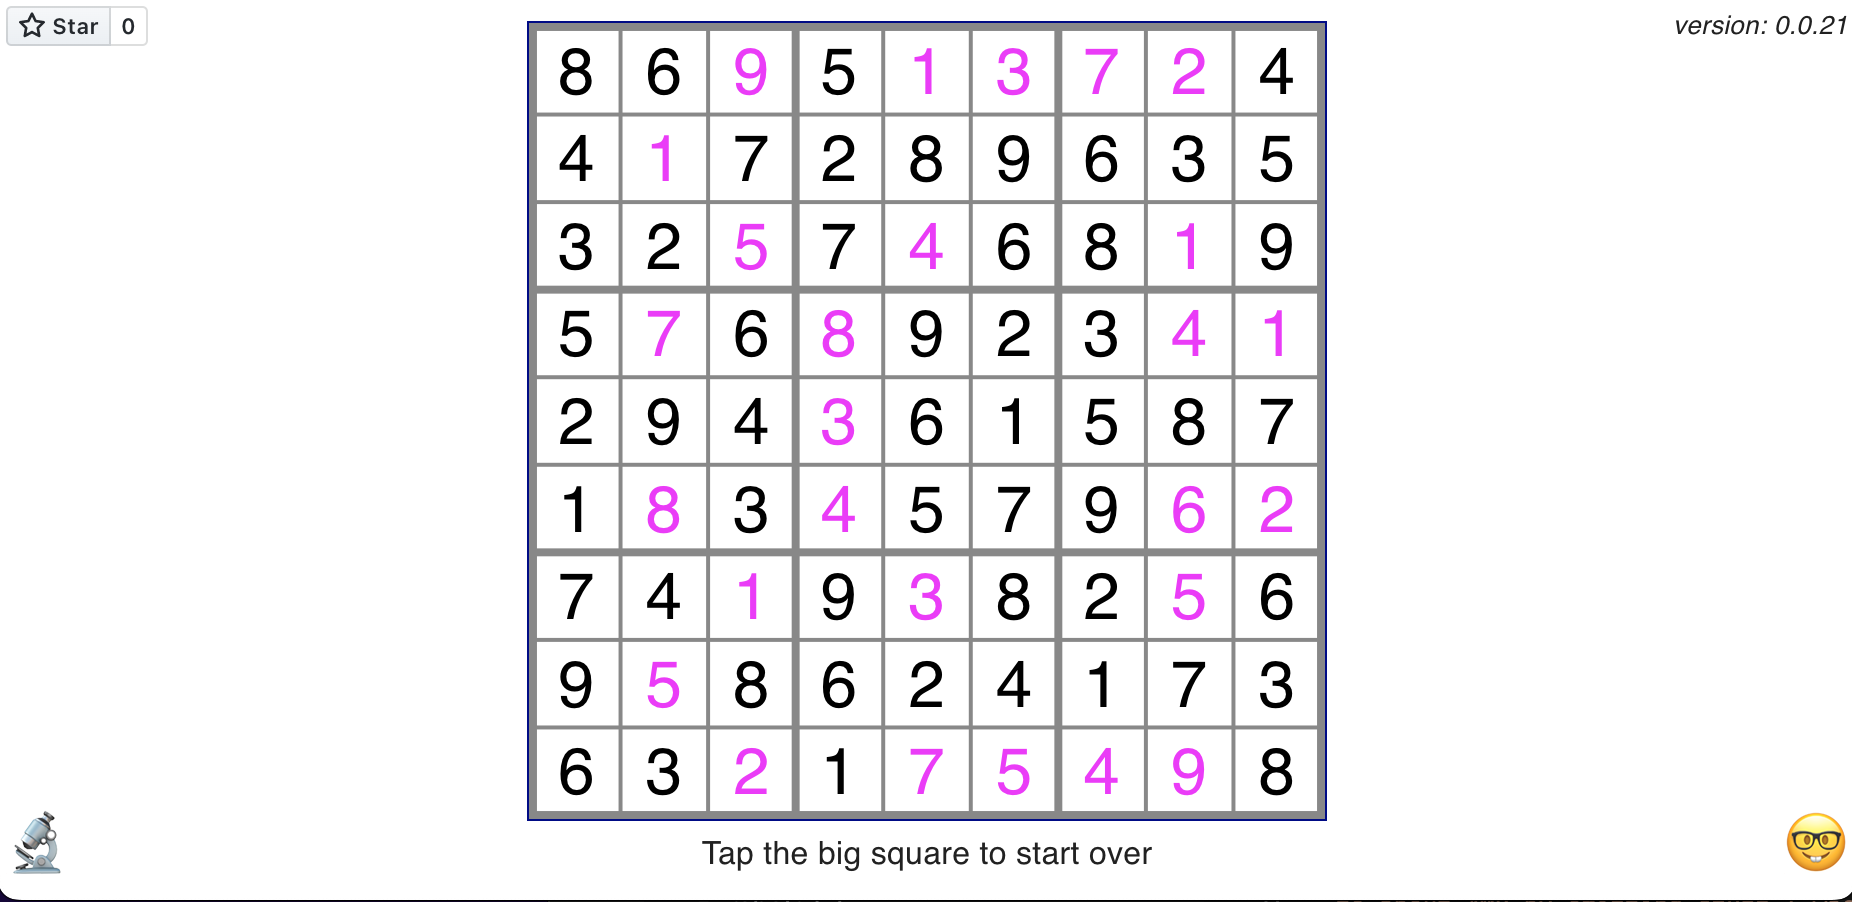
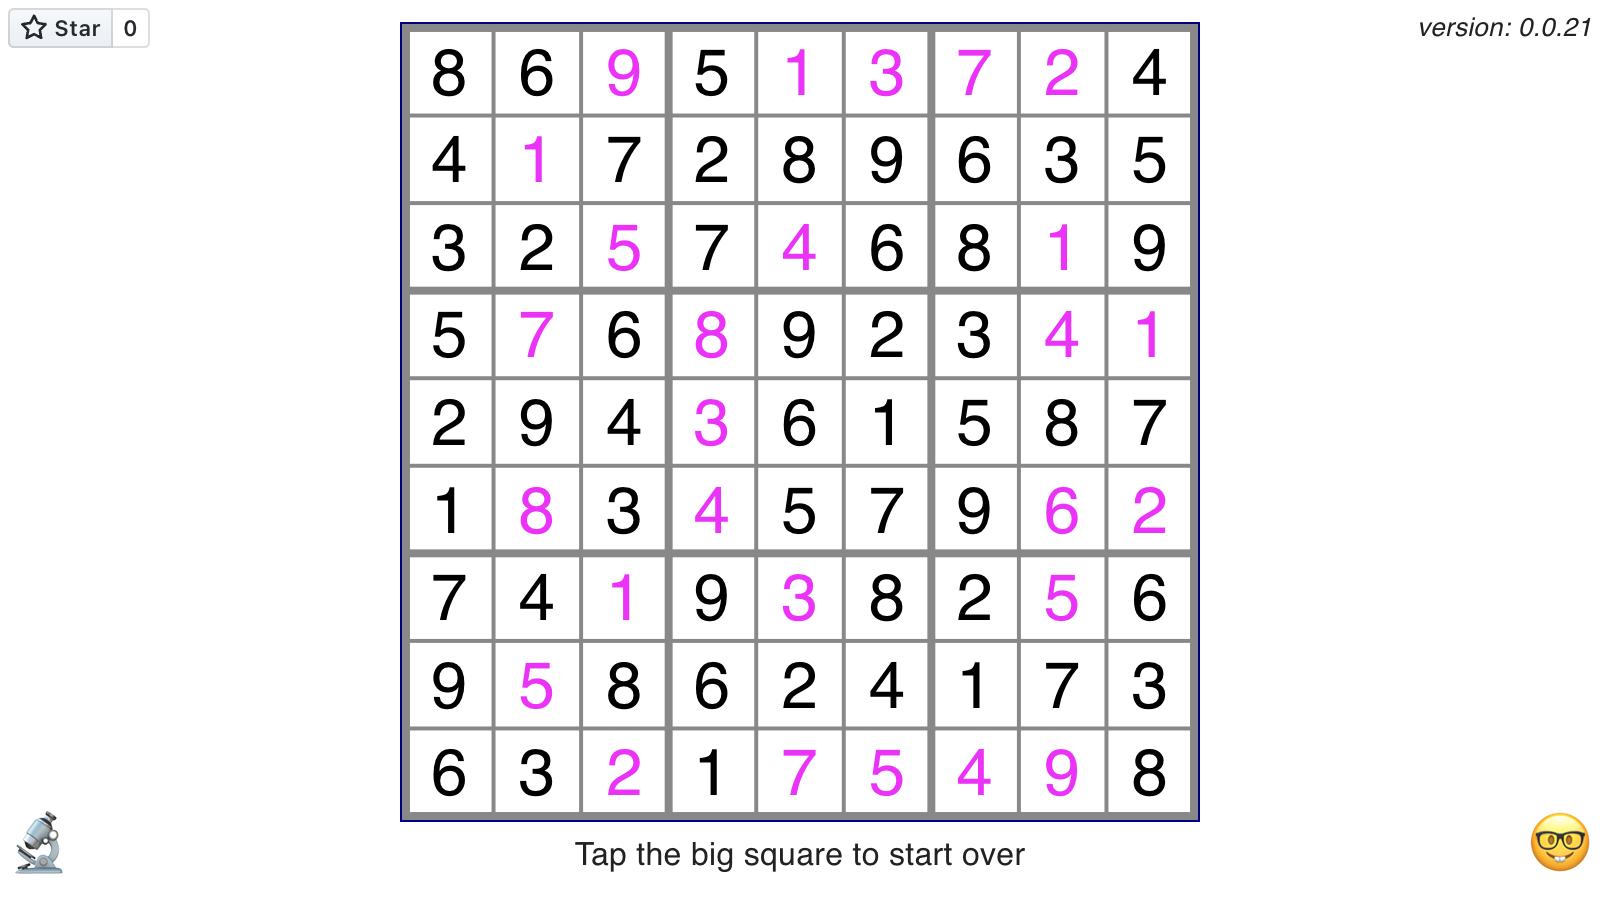
New screenshots with 16/9 aspect ratio to match the new card styling

diff --git a/src/project-card.tsx b/src/project-card.tsx
@@ -18,9 +18,12 @@ export const ProjectCard: React.FunctionComponent<CardProps> = ({
   onLearnMore,
 }: CardProps) => {
   return (
-    <Card variant="outlined">
-      <CardActionArea onClick={() => onLearnMore(project)}>
-        <CardContent>
+    <Card variant="outlined" sx={{ backgroundColor: "#444" }}>
+      <CardActionArea
+        onClick={() => onLearnMore(project)}
+        sx={{ height: "100%" }}
+      >
+        <CardContent sx={{ height: "100%" }}>
           <AspectRatio ratio="16/9">
             <CardMedia
               image={project.cardImage.path}
